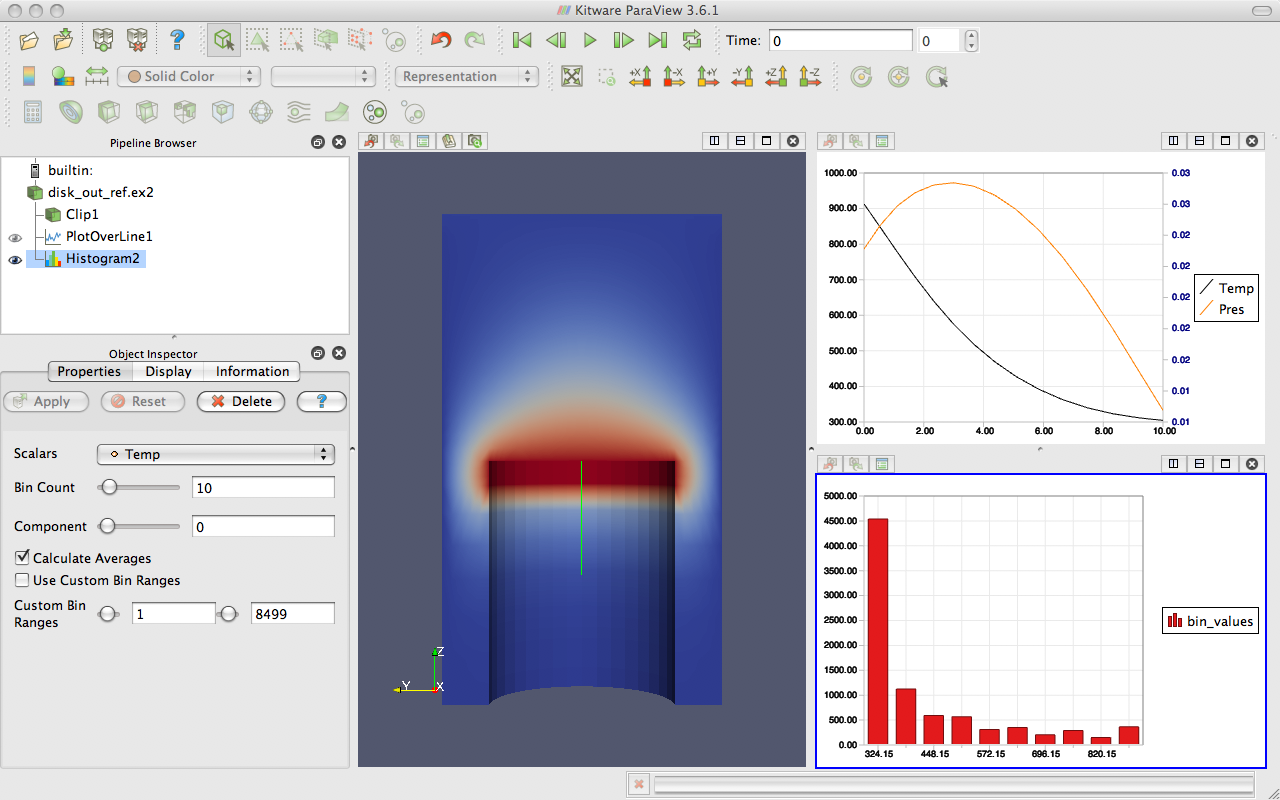
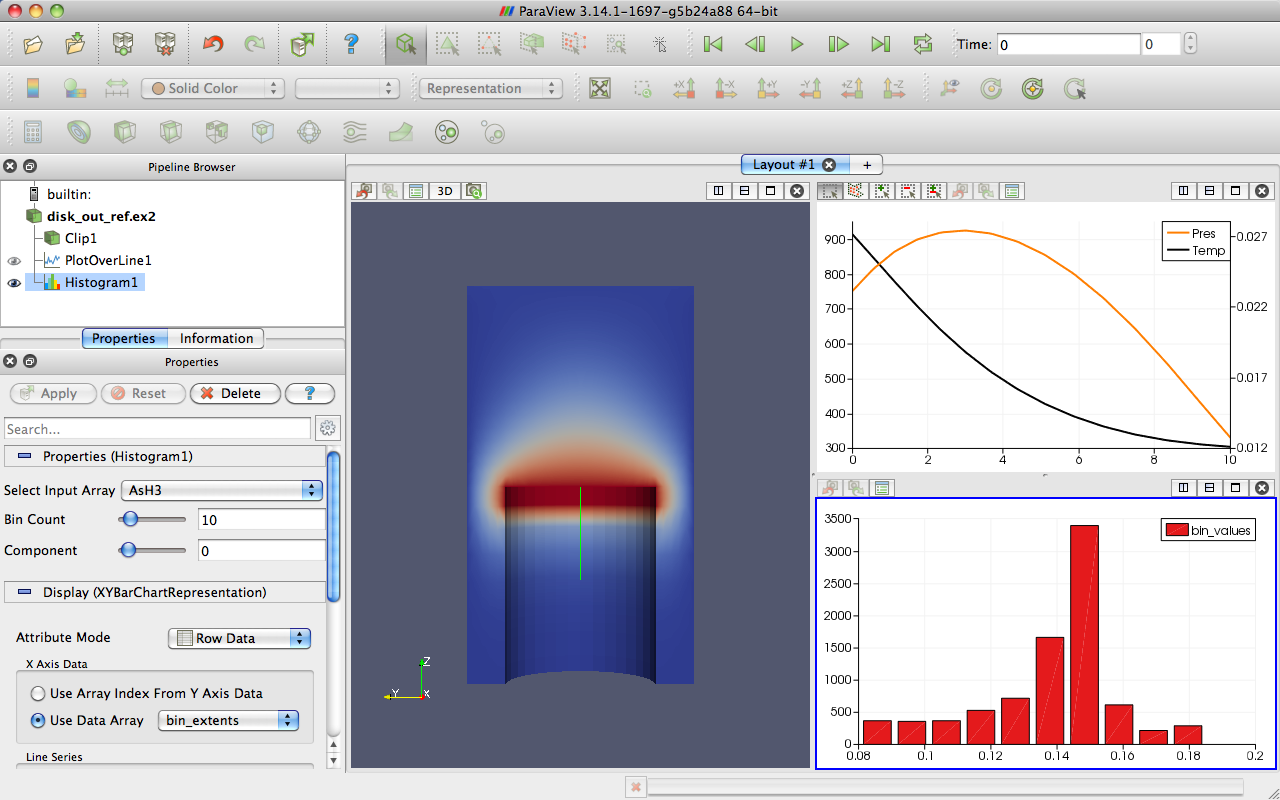
Update a few more exercises.
Updated through section 2.10.

diff --git a/BasicUsage.tex b/BasicUsage.tex
@@ -77,7 +77,7 @@ but they are also very handy when exploring ParaView's features.
   Let us start with a simple one.  Go to the \gui{Sources} menu and select
   \gui{Cylinder}.  Once you select the \gui{Cylinder} item you will notice
   that an item named \gui{Cylinder1} is added to and selected in the
-  pipeline browser.  You will also notice that the object inspector is
+  pipeline browser.  You will also notice that the properties panel is
   filled with the properties for the cylinder source.  \index{apply~button}
   Click the \gui{Apply} button \apply to accept the default parameters.
 
@@ -248,7 +248,7 @@ options can be repeated elsewhere in the ParaView GUI for convenience.
 
   We are done with the cylinder source now.  We can delete the pipeline
   object by selecting the \gui{Properties} tab and hitting
-  \index{delete~button} delete \delete in the object inspector.
+  \index{delete~button} delete \delete in the properties panel.
 \end{exercise}
 
 \index{sources|)}
@@ -589,7 +589,7 @@ chapter of ParaView's on-line or in-built help for more information on each filt
   \gui{disk\_out\_ref.ex2} is selected in the pipeline browser and then
   select the contour filter~\contour from the filter toolbar or
   \gui{Filters} menu.  Notice that a new item is added to the pipeline
-  filter underneath the reader and the object inspector updates to the
+  filter underneath the reader and that the properties panel updates to the
   parameters of the new filter.  As with reading a file, applying a filter
   is a two step process.  After creating the filter you get a chance to
   modify the parameters (which you will almost always do) before applying
@@ -679,7 +679,7 @@ second filter will cut some away.
     browser.
   \item Create a clip filter \clip from the toolbar or \gui{Filters} menu.
   \item Uncheck the \gui{Show Plane} checkbox
-    \includeinlinegraphics{images/ShowPlaneCheckbox} in the object inspector.
+    \includeinlinegraphics{images/ShowPlaneCheckbox} in the properties panel.
   \item Click the \apply button.
   \end{enumerate}
 
@@ -761,7 +761,7 @@ pressed.
     Exercise~\ref{ex:OpeningAFile}).
   \item Add the Clip filter~\clip to \gui{disk\_out\_ref.ex2}.
   \item Uncheck the Show Plane checkbox
-    \includeinlinegraphics{images/ShowPlaneCheckbox} in the object inspector.
+    \includeinlinegraphics{images/ShowPlaneCheckbox} in the properties panel.
   \item Click the \apply button.
   \item Color the surface by pressure by changing the variable chooser (in
     the toolbar) from \gui{Solid Color} to \gui{Pres}.
@@ -785,7 +785,7 @@ pressed.
   be filled with a new visualization.  Notice that the view in the right
   has a blue border around it.  This means that it is the \keyterm{active
     view}.  Widgets that give information about and controls for a single
-  view, including the pipeline browser and object inspector, follow the
+  view, including the pipeline browser and properties panel, follow the
   active view.  In this new view we will visualize the temperature of the
   mesh.
 
@@ -957,9 +957,9 @@ lines that point in the direction of the flow.
     \restorecounter
   \item Select \gui{StreamTracer1} in the pipeline browser.
   \item Add the glyph filter~\glyph to \gui{StreamTracer1}.
-  \item In the object inspector, change the \gui{Vectors} option (second
+  \item In the properties panel, change the \gui{Vectors} option (second
     option from the top) to \gui{V}.
-  \item In the object inspector, change the \gui{Glyph Type} option (third
+  \item In the properties panel, change the \gui{Glyph Type} option (third
     option from the top) to \gui{Cone}.
   \item Hit the \apply button.
   \item Color the glyphs with the \gui{Temp} variable.
@@ -1003,7 +1003,7 @@ filter that will plot the values of the mesh's fields over a line in space.
     Exercise~\ref{ex:OpeningAFile}).
   \item Add the Clip filter~\clip to \gui{disk\_out\_ref.ex2}, Uncheck the
     Show Plane checkbox \includeinlinegraphics{images/ShowPlaneCheckbox} in
-    the object inspector, and click \apply (like in
+    the properties panel, and click \apply (like in
     Exercise~\ref{ex:UsingMultipleViews}).  This will make it easier to see
     and manipulate the line we are plotting over.
   \item Click on \gui{disk\_out\_ref.ex2} in the pipeline browser to make
@@ -1022,7 +1022,7 @@ filter that will plot the values of the mesh's fields over a line in space.
   In the active view you will see a line through your data with a ball at
   each end.  If you move your mouse over either of these balls, you can
   drag the balls through the 3D view to place them.  Notice that each time
-  you move the balls some of the fields in the object inspector also
+  you move the balls some of the fields in the properties panel also
   change.  You can also place the balls by hovering your mouse over the
   target location and hitting the p key.  This will alternatively place
   each ball at the surface underneath the mouse cursor.  This was the
@@ -1041,7 +1041,7 @@ filter that will plot the values of the mesh's fields over a line in space.
     \restorecounter
   \item Adjust the line so that it goes from the base of the disk straight up
     to the top of the mesh using the 3D widget manipulators, the p key
-    shortcut, or the object inspector parameters.
+    shortcut, or the properties panel parameters.
   \item Once you have your line satisfactorily located, click the \apply
     button.
   \end{enumerate}
@@ -1060,7 +1060,7 @@ filter that will plot the values of the mesh's fields over a line in space.
 Plots, like 3D renderings, are considered views.  Both provide a
 representation for your data; they just do it in different ways.  Because
 plots are views, you interact with them in much the same ways as with a 3D
-view.  If you look in the \gui{Display} tab of the object inspector, you
+view.  If you look in the \gui{Display} section of the properties panel, you
 will see many options on the representation for each line of the plot
 including colors, line styles, vector components, and legend names.
 \begin{inlinefig}
@@ -1097,8 +1097,9 @@ temperature variables.
   \item Choose a place in your GUI that you would like the plot to go and
     try using the split, delete, resize, and swap view features to move it
     there.
-  \item Make the plot view active, go to the \gui{Display} tab, and turn
-    off all variables except \gui{Temp} and \gui{Pres}.
+  \item Make the plot view active, go to the \gui{Display} section of the
+    properties panel, and turn off all variables except \gui{Temp} and
+    \gui{Pres}.
     \savecounter
   \end{enumerate}
 
@@ -1229,9 +1230,9 @@ Exercise~\ref{ex:Streamlines}.
     \gui{Solid Color}.
   \item Select \gui{StreamTracer1} in the pipeline browser.
   \item Add the glyph filter~\glyph to \gui{StreamTracer1}.
-  \item In the object inspector, change the \gui{Vectors} option (second
+  \item In the properties panel, change the \gui{Vectors} option (second
     option from the top) to \gui{V}.
-  \item In the object inspector, change the \gui{Glyph Type} option (third
+  \item In the properties panel, change the \gui{Glyph Type} option (third
     option from the top) to \gui{Cone}.
   \item Hit the \apply button.
   \item Color the glyphs with the \gui{Temp} variable.
@@ -1852,9 +1853,9 @@ selection.
   \end{inlinefig}
 
   Note that the selection you had was automatically added as the selection
-  to use in the \gui{Object Inspector}.  If you want to change the
+  to use in the \gui{Properties} panel.  If you want to change the
   selection, simply make a new one and click \gui{Copy Active Selection} in
-  the \gui{Object Inspector}.
+  the \gui{Properties} panel.
 \end{exercise}
 
 You can also extract a selection in order to view the selected points or
@@ -2052,7 +2053,7 @@ text annotation wherever you want in a 3D view.  There is a special
 
   \begin{enumerate}
   \item From the menu bar, select \gui{Sources} \ra \gui{Text}.
-  \item In the text edit box of the object inspector, type a message.
+  \item In the text edit box of the properties panel, type a message.
   \item Hit the \apply button.
   \end{enumerate}
 
@@ -2062,7 +2063,7 @@ text annotation wherever you want in a 3D view.  There is a special
 
   The text you entered appears in the 3D view.  You can place this text
   wherever you want by simply dragging it with the mouse.  The
-  \gui{Display} tab in the object inspector provides additional options for
+  \gui{Display} group in the properties panel provides additional options for
   the size, font, and color of the text.  It also has additional controls
   for placing the text in the most common locations.
 
